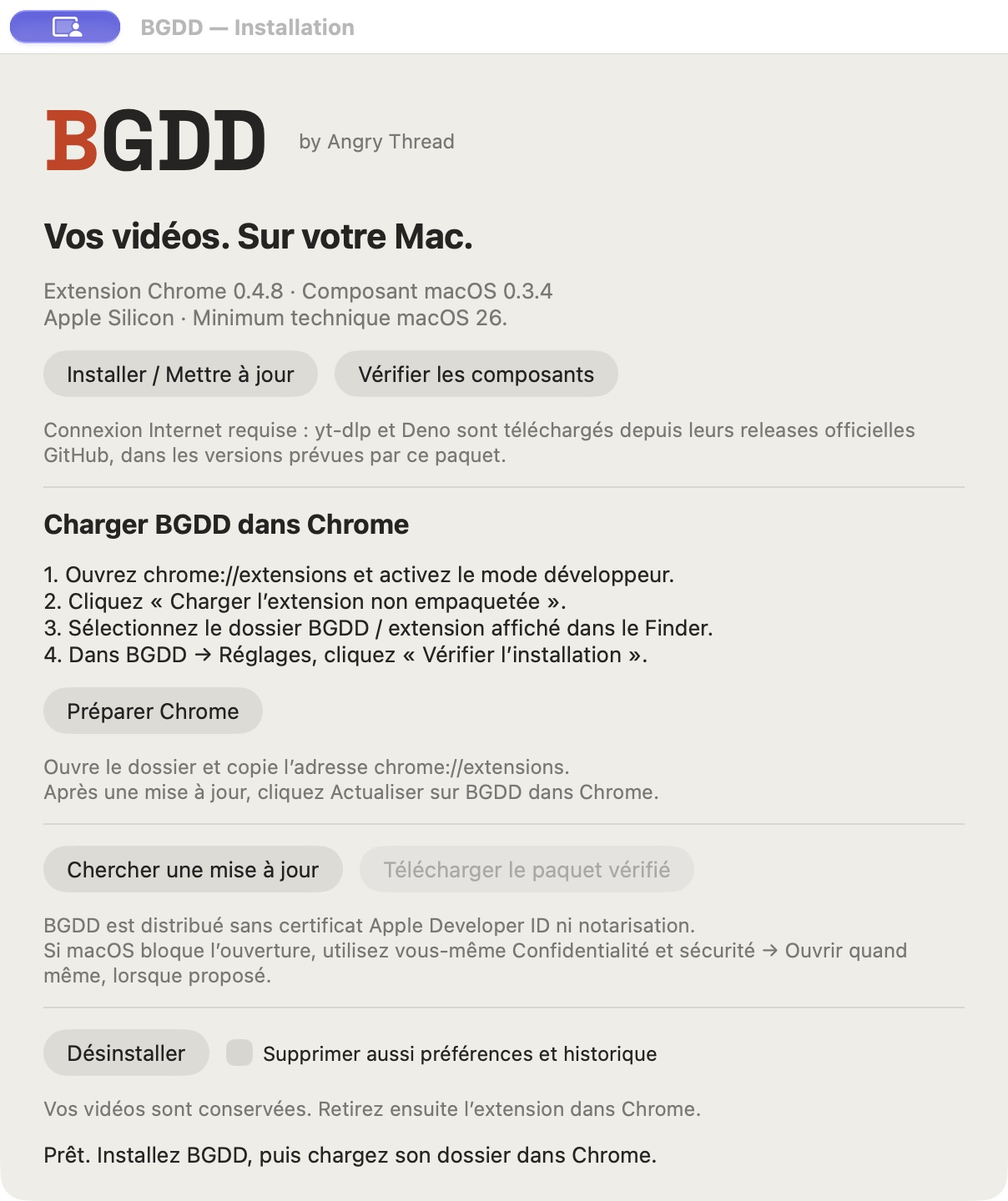
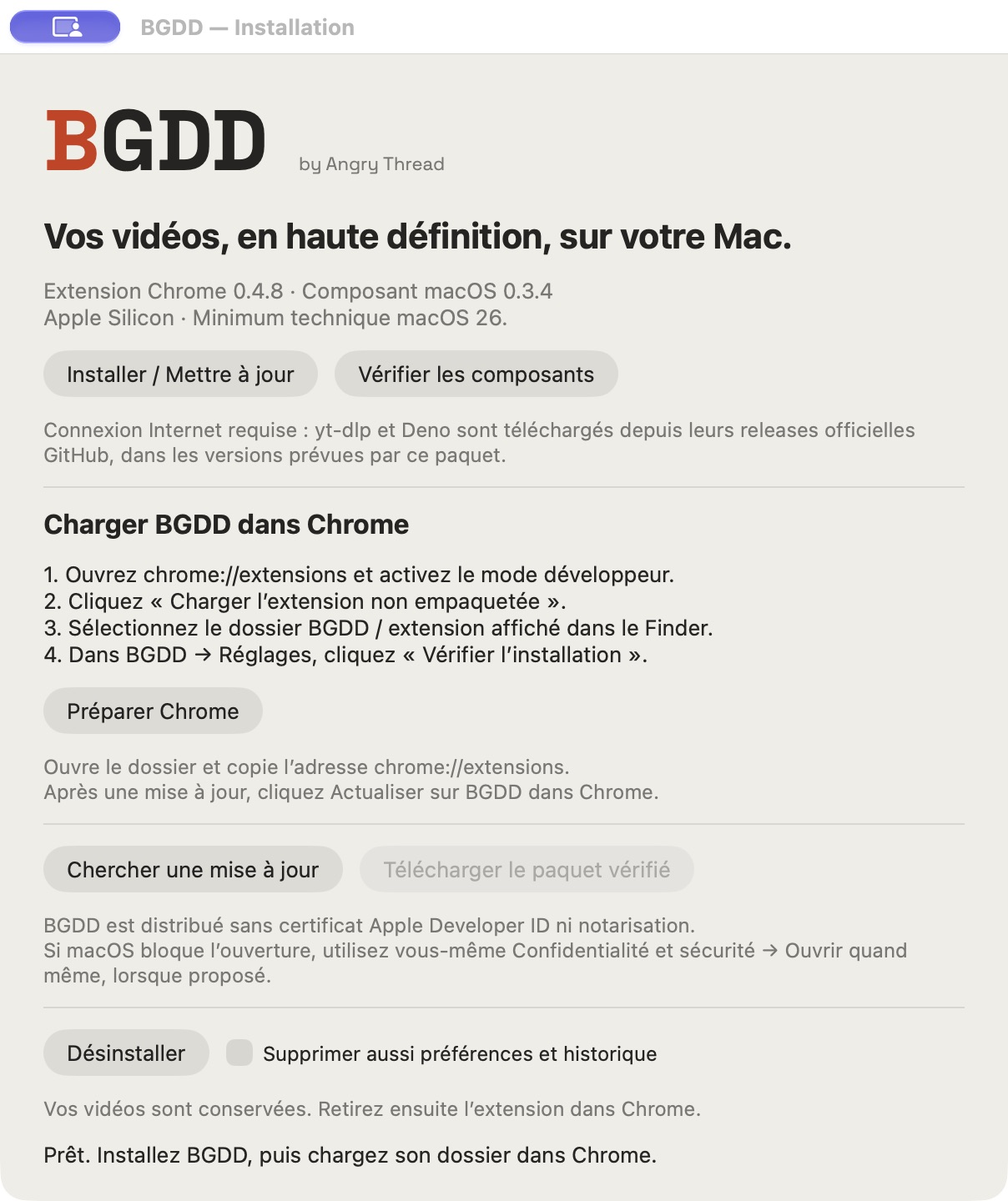
Prepare rc2 private distribution with qualified codecs and current limits

Changed region(s): [[0.2144, 0.1875, 0.7964, 0.2188], [0.3063, 0.0938, 0.4594, 0.1562]]

diff --git a/docs/DISTRIBUTION-VALIDATION.md b/docs/DISTRIBUTION-VALIDATION.md
@@ -1,31 +1,50 @@
-# Distribution 0.4.8-rc.2 Validation
+# Distribution 0.4.8-rc.2 — Validation
 
-La candidate gratuite propriétaire cible **macOS 26 et 27 arm64**. Le minimum technique 26.0 est inspecté ; il ne constitue pas une preuve de fonctionnement sur macOS 26. Le dépôt de développement et la vitrine restent privés. La conformité de redistribution de l’architecture hybride est établie pour les matériaux contrôlés ; la publication publique n’est pas autorisée.
+La candidate gratuite propriétaire cible **macOS 26 et 27 Apple Silicon**. Les deux systèmes ont réellement exécuté les recettes privées. L’installation, les outils et Native Messaging passent ; les quatre téléchargements publics demandés échouent sur une vérification YouTube. La compatibilité complète et le parcours Gatekeeper de la candidate finale restent donc **non qualifiés**. Les deux dépôts restent privés et aucune publication publique n’est autorisée.
 
-## Preuves actuelles séparées
+## Preuves séparées
 
 | Périmètre | Résultat observé | Limite |
 |---|---|---|
-| Build natif et codecs | Installateur, host, gardien, sélecteur, FFmpeg et ffprobe réellement compilés target26 ; architectures, minimums, SDK et imports inspectés | Build local SDK27 ; exécution sous OS26 à mesurer en VM |
-| Installateur et updater | 86 validations maintenance/versions/origines/transactions réussies, dont refus legacy avant mutation | Fixtures et HOME marqués, pas autorisation Gatekeeper humaine |
-| Bootstrap | 36 contrôles de configuration, pins, archives ZIP, chemins et quarantaine réussis | Inspection de vraies archives officielles et entrées malveillantes ; aucun transfert réussi déduit de ces tests |
-| Vitrine | Audit local des fichiers suivis et de tout l’historique du dépôt indépendant, tests secrets/source privée/archives altérées | Aucun scanner externe ni publication publique |
-| Paquet hybride local | 58 fichiers payload, 66 fichiers application, six Mach-O, aucun runtime upstream exclu | Installation réseau encore à qualifier |
-| Sources et licences | 23 matériaux juridiques et kit de 15 fichiers tiers contrôlés ; compilation réellement exécutée | Autorisation de redistribution ne prouve ni compatibilité OS ni ouverture Gatekeeper |
-| Acquisition officielle locale | Une tentative yt-dlp a reçu HTTP504, zéro octet ; échec signalé | Indisponibilité réseau mesurée, aucune version ou empreinte remplacée |
-| VM authentiques 26/27 | Matrice GitHub Actions préparée | Résultats rc2 pas encore acquis à ce stade |
-| Gatekeeper manuel | Procédure officielle documentée, quarantaines préservées | Aucune autorisation utilisateur simulée ni parcours complet déclaré |
+| Non-régression | 357/357 tests existants ; TypeScript et build réussis | Tests automatisés, distincts des essais réseau et des autorisations humaines |
+| Installateur et mise à jour | 86/86 contrôles de maintenance, versions, origines et transactions | Fixtures et HOME isolés ; aucune autorisation Gatekeeper humaine déduite |
+| Bootstrap et sécurité | 44/44 contrôles des pins, archives ZIP, chemins, liens et quarantaine | Vraies archives officielles et entrées malveillantes ; ni version ni empreinte assouplie |
+| Packaging et vitrine | 8/8 contrôles du paquet ; 2/2 contrôles du refus de sources originales, secrets, liens et historique | Audit des fichiers réellement suivis et des blobs historiques ; aucun scanner externe revendiqué |
+| macOS 26 natif | macOS 26.6.2 arm64, Xcode 26.6, SDK 26.5, Swift 6.3.3 : build et installation réelle isolée réussis | Recette automatisée ; pas de compte macOS neuf ni de parcours graphique complet |
+| macOS 27 natif | macOS 27.0.1 arm64, Xcode 27.0, SDK 27.0, Swift 6.4 : mêmes recettes réussies | Même limite ; les preuves historiques rc.1 restent distinctes |
+| Acquisition des moteurs | Trois cycles réels de bootstrap officiel par OS ; versions, empreintes et quarantaine contrôlées | Les premiers incidents locaux HTTP504 et délai dépassé restent consignés séparément |
+| Composants installés | 111 Mach-O inspectés après acquisition ; six exécutables transportés arm64, minimum26.0 ; signatures techniques et imports contrôlés | L’inspection ne remplace pas l’exécution ; signature ad hoc sans identité Apple |
+| Maintenance native | Installation déplacée, diagnostic encadré, sortie EOF, outils réels, remplacement GPL reconstruit, mise à jour, désinstallation et réinstallation réussis sur les deux OS | Préférences, historique et médias conservés ; pas une preuve Gatekeeper graphique |
+| Chrome vierge | Profil isolé, identité exacte, destination isolée, Native Messaging réel, reprise après mise à jour, refus d’origine incorrecte et fermeture sans processus de recette restant : sept contrôles réussis par OS | Chrome automatisé sans compte ; panneaux AppKit et actions Finder non qualifiés par cette recette |
+| YouTube public | Qualité maximale, MP4, WAV et MP3 : huit tentatives au total, toutes unavailable, code challenge | « Vérification demandée par YouTube. » ; zéro format réseau qualifié, aucune annulation de transfert actif démontrée |
+| Codecs de la candidate SDK26 | 5/5 recettes réussies sur chaque OS avec les mêmes FFmpeg/ffprobe : remux, MP4 H.264/AAC, WAV24 PCM identique, MP3 320k et carrousel 3 images | Médias locaux de recette ; MP4 issu d’une source synthétique déclarée, pas une conversion AV1 silencieuse ni un téléchargement public |
+| Interface locale macOS27 | Installation graphique réelle dans un HOME marqué, vérification des fichiers et préparation du dossier Chrome réussies ; alignement BGDD/signature et nouvelle phrase vérifiés visuellement | Variante de recette locale SDK27 ; aucune modification de l’installation personnelle |
+| Gatekeeper manuel local | Refus initial du host observé ; après autorisation personnelle, diagnostic Chrome natif réussi. Autorisation du gardien confirmée par l’utilisateur ; NSOpenPanel ouvert depuis Chrome, choix enregistré et annulation conservant la destination réussis | Variante locale SDK27 ; aucun parcours complet de la candidate distante finale sur26/27 déclaré |
+| Licences | 23 matériaux transportés, kit de 15 fichiers tiers, reconstruction indépendante et remplacement réellement exécutés | Conformité limitée à l’architecture hybride et aux matériaux examinés ; aucune approbation Apple ou publication publique déduite |
 
-## Recettes attendues
+Les pages synthétiques servent uniquement aux métadonnées et captures. Les essais YouTube passent par l’extension, son worker et le host réels, sans cookies ni compte personnel. Un état unavailable, auth ou interrupted ne vaut jamais succès. Les échecs réseau conservent les workflows de distribution en échec.
 
-La matrice demande installation déplacée, vrais moteurs, Chrome vierge, quatre formats Coffee Run public sous CC BY4.0, historique, destination, Finder, annulation, mise à jour avec conservation et désinstallation. Les transferts réseau doivent tous finir en done pour qualifier leurs quatre formats ; un état unavailable/auth/interrupted ne constitue pas un succès. Les pages synthétiques servent à la metadata/capture, tandis que le host reçoit le média réel directement de YouTube, sans cookie ou compte personnel.
+## Candidate et provenance
 
-Le choix NSOpenPanel et l’autorisation Gatekeeper graphique demandent des interactions séparées de la recette headless. Une VM locale GUI26 est préparée techniquement, avec image Apple officielle identifiée ; son stockage et sa qualification restent à établir.
+La candidate retenue utilise l’application compilée dans la recette macOS26, SDK26.5. Les 66 fichiers de cette application sont conservés lors des rafraîchissements documentaires du DMG. Les inventaires, sources de codecs, instructions de reconstruction et empreintes distinguent les anciens builds locaux des exécutables réellement transportés.
 
-## Historique conservé
+Le DMG hybride contient BGDD, FFmpeg/ffprobe, les polices et leurs matériaux exigés. yt-dlp et Deno sont acquis directement depuis leurs releases officielles lors de l’installation explicite, avec versions et empreintes fixées. Leur archive et leur runtime ne sont pas redistribués dans le DMG.
 
-rc.1 a été conservée avec son DMG, tag, sources et preuves. Ses 350 tests historiques, Chrome156.0.8078.4, quatre transferts YouTube, annulation native et Finder, ainsi que la VM macOS27.0.1, ne sont pas réattribués à rc.2. Les réserves juridiques de son bundle autonome demeurent ouvertes.
+## Gatekeeper et systèmes restant à qualifier
 
-## Limites
+Le parcours complet doit encore couvrir la candidate finale téléchargée à distance, quarantaine conservée : première ouverture, autorisation humaine, auxiliaires et moteurs, téléchargement autorisé, fermeture/réouverture et désinstallation sur chaque OS. Une exception accordée à un seul exécutable ne qualifie pas les autres.
 
-Aucun Intel, nouvelle recette réseau X/Instagram/TikTok, écoute humaine, VoiceOver humain ou nouveau test matériel APFS/exFAT n’est revendiqué. Aucune installation personnelle n’est modifiée. Les preuves de recette sont locales ou dans la CI privée, sans logs ni historique personnel dans la vitrine.
+Aucune VM locale n’est utilisée, conformément à la préférence de Henry. Les recettes distantes sont automatisées ; les validations graphiques restantes peuvent être réalisées sur des Mac sous26 et27 sans imposer de VM à l’utilisateur. L’absence d’un parcours graphique26 reste une limite explicite.
+
+## Historique et périmètre
+
+rc.1 est conservée avec son DMG, son tag, ses sources et ses preuves. Ses 350 tests, quatre transferts YouTube, annulation native, Finder et recette macOS27 ne sont pas réattribués à rc.2. Les réserves juridiques de son ancien bundle autonome restent historiques et ouvertes.
+
+Aucun Intel, nouvel essai public X/Instagram/TikTok, écoute humaine, VoiceOver humain ou nouveau test matériel APFS/exFAT n’est revendiqué. L’installation personnelle et le Chrome personnel restent hors recette.
+
+## État de publication
+
+- **Préparé techniquement :** paquet construit ; installation et fonctionnement démontrés dans les périmètres ci-dessus.
+- **Conforme pour distribution :** matériaux et droits de redistribution établis pour le périmètre hybride examiné.
+- **Prêt à publier : non.** Parcours Gatekeeper complet de la candidate finale, interface26 et quatre formats réseau sur les deux OS restent à qualifier.
+- **Public : non.** Dépôts privés ; publication conditionnée à une validation terminée et à l’accord final explicite de Henry.

diff --git a/docs/DISTRIBUTION-LICENSES.md b/docs/DISTRIBUTION-LICENSES.md
@@ -39,10 +39,12 @@ Le kit **BGDD-third-party-sources.zip** de la même release et le paquet lui-mê
[7 lines of base64/hex data omitted]
 
-Le build a réellement utilisé `/bin/sh` sur cette recette, Apple Clang 21.0.0 / Xcode 27, SDK 27.0. Les deux Mach-O obtenus sont arm64, `LC_BUILD_VERSION` minimum **26.0**. Aucune modification du code des trois archives n’a été appliquée. Les options exactes et les résultats sont consignés dans `build-record.json` et `FFmpeg-build.txt`. La cible de compilation ne suffit pas à annoncer une compatibilité macOS 26 effectivement validée.
+Le **premier build local historique** a réellement utilisé `/bin/sh`, Apple Clang 21.0.0 / Xcode 27 et SDK 27.0. Ses deux Mach-O sont arm64, minimum **26.0**. `build-record.json` et la sortie brute `FFmpeg-build.txt` du kit conservent cette référence, explicitement historique : leurs empreintes binaires ne désignent pas une candidate ultérieure construite avec SDK26.
+
+Pour la candidate que l’utilisateur reçoit, **`VERSIONS.json.media` fait autorité** sur le compilateur/SDK, les options et les deux empreintes avant signature. Le payload `native/integrity.json` et `native/dependencies.json` identifie les codecs livrés après signature ; `native/licenses/codec-build/FFmpeg-build.txt` est la notice issue de ce build. Les sommes de la même release identifient le DMG et son kit. La compilation SDK26 préservée utilise réellement les mêmes trois archives, la recette SHA `b1f25e73…` et les mêmes options ; aucune modification de leurs sources n’est introduite par cette clarification. La cible de compilation et la conformité source restent distinctes de la qualification de fonctionnement.
 
 Le pipeline privé consomme ces sorties puis les prépare pour le conteneur. La re-signature ad hoc change les octets et leurs empreintes ; le manifest et les sommes du paquet final sont calculés ensuite. Elle ne prétend ni certifier l’identité Apple de l’éditeur ni supprimer le droit de reconstruire les sources.
 
@@ -79,10 +81,12 @@ Les compositions graphiques réalisées à partir des glyphes sont distinctes du
 
 ## Verdict et garde-fous
 
[2 lines of base64/hex data omitted]
 
-Le [statut public de redistribution](../licenses/REDISTRIBUTION-STATUS.json) indique : **redistribution autorisée pour ce seul périmètre hybride contrôlé**, et une publication publique non autorisée à ce stade. Le snapshot de contrôle joint à l’application lors de sa fabrication précède ce verdict final ; la preuve et le statut courants de la release le complètent. Aucune conformité globale des bundles historiques n’est proclamée. La publication publique, la qualification macOS 26/27 et le parcours Gatekeeper sont des conditions distinctes que ce verdict ne remplace pas.
+Le [statut public de redistribution](../licenses/REDISTRIBUTION-STATUS.json) indique : **redistribution autorisée pour ce seul périmètre hybride contrôlé**, et une publication publique non autorisée à ce stade. Les inspections historiques sont conservées ; une nouvelle application ou de nouveaux matériaux juridiques nécessitent une inspection correspondante du conteneur final. Le statut de la release et ses empreintes doivent être lus avec le paquet concerné. Aucune conformité globale des bundles historiques n’est proclamée. La publication publique, la qualification macOS 26/27 et le parcours Gatekeeper sont des conditions distinctes que ce verdict ne remplace pas.
 
 ## Accès direct aux matériaux
 
 Les [instructions de reconstruction](../sources/README.md), les [trois archives exactes](../sources/), la [recette réellement exécutée](../sources/build-codecs.sh), le [relevé de compilation](../sources/build-record.json) et la [méthode de remplacement local](../sources/install-codecs.pl) sont accessibles dans ce dépôt. Les textes GNU complets et la licence de la police se trouvent dans [les licences jointes](../licenses/). Le kit **BGDD-third-party-sources.zip** de la même release ajoute le TTF original de Space Grotesk ; tant que la vitrine reste privée, aucun asset n’est annoncé comme accessible publiquement.
+
+La [référence historique du premier build](../sources/build-record.json) est explicitement distincte des métadonnées du build livré. Consulter `VERSIONS.json.media` de la même release pour le compilateur/SDK et les SHA actuels, puis les empreintes du payload pour les octets signés.

diff --git a/sources/README.md b/sources/README.md
@@ -18,7 +18,7 @@ Origines : [FFmpeg 9.0.2](https://ffmpeg.org/releases/ffmpeg-9.0.2.tar.xz), [x26
 
 Ces étapes s’adressent aux personnes souhaitant reconstruire ou modifier les codecs. Elles ne font pas partie de l’installation normale de BGDD, qui reste graphique et ne requiert ni Terminal, ni Node, ni Python, ni Homebrew.
 
-Le build de référence a utilisé Apple Silicon, Xcode 27 et Apple Clang 21.0.0, avec SDK 27.0 et cible minimale **macOS 26.0**. Ce minimum de compilation ne qualifie pas à lui seul le fonctionnement sur macOS 26. La recette exige un dossier de sortie vide et ne supprime aucun dossier existant.
+Le **premier build local de référence, conservé comme historique**, a utilisé Apple Silicon, Xcode 27 et Apple Clang 21.0.0, avec SDK 27.0 et cible minimale **macOS 26.0**. Il ne désigne pas automatiquement le build des codecs de chaque candidate actuelle. Ce minimum de compilation ne qualifie pas à lui seul le fonctionnement sur macOS 26. La recette exige un dossier de sortie vide et ne supprime aucun dossier existant.
 
 ```sh
 /bin/sh ./build-codecs.sh . ./build-output
@@ -26,7 +26,11 @@ Le build de référence a utilisé Apple Silicon, Xcode 27 et Apple Clang 21.0.0
 
 La recette réellement exécutée est `build-codecs.sh`. Elle vérifie les trois archives, construit x264/LAME statiques, construit FFmpeg/ffprobe avec les options enregistrées, installe les bibliothèques dans un staging et les exécutables dans `build-output/bin`. Elle génère ses SHA et la notice de configuration. Aucun module privé BGDD n’est requis pour la construction. Le préfixe `/bgdd-build` est logique et utilisé uniquement dans le staging, jamais comme dépendance de runtime.
 
-Les encodeurs H.264, MP3, PCM, AAC, PNG et les décodeurs/parseurs disponibles dans le build sont conservés ; réseau et détection automatique de bibliothèques externes sont désactivés. `build-record.json` rapporte la recette, les trois sources, le compilateur et les empreintes des sorties avant re-signature de distribution. La re-signature ad hoc de transport change les octets et leurs SHA ; les sommes de la release distinguent cette étape.
+Les encodeurs H.264, MP3, PCM, AAC, PNG et les décodeurs/parseurs disponibles dans le build sont conservés ; réseau et détection automatique de bibliothèques externes sont désactivés. `build-record.json` est **une référence historique du premier build local SDK27**, avec ses propres sorties avant signature ; `FFmpeg-build.txt` dans ce kit conserve aussi la sortie brute de cette première construction. Ces SHA historiques ne sont pas les SHA attendues des codecs d’une candidate construite ensuite avec SDK26.
+
+Pour le paquet que vous avez réellement téléchargé, **`VERSIONS.json`, champ `media`, fait autorité** sur le SDK, le compilateur, les sources/recette, les options et les empreintes avant signature du build actuel. Le payload `native/integrity.json` et `native/dependencies.json` donne les empreintes des deux exécutables réellement livrés après signature. Le payload `native/licenses/codec-build/FFmpeg-build.txt` conserve la notice de configuration générée par ce build actuel. Les sommes `SHA256SUMS` de la même release identifient le conteneur et le kit de sources.
+
+La recette publique et les trois archives exactes restent celles qui ont réellement produit ces builds ; seul leur environnement de construction peut différer. La GPL demande les sources correspondantes effectives, sans imposer une identité d’empreinte entre compilateurs différents. [FAQ GNU sur les sources et les SHA binaires](https://www.gnu.org/licenses/gpl-faq.en.html#MustSourceBuildToMatchExactHashOfBinary). La signature de transport change aussi les octets et leurs SHA.
 
 Pour modifier LAME, x264 ou FFmpeg, décompacter la source concernée, effectuer les changements, recréer son archive et adapter dans votre copie de `build-codecs.sh` l’empreinte de l’archive modifiée. Les contrôles de SHA du build de référence sont éditables dans cette recette sous GPL ; ils ne retirent pas le droit de modifier les sources. La recette reconstruira et rééditera les liens statiques avec la bibliothèque modifiée.
 

diff --git a/docs/DISTRIBUTION-BOUNDARIES.md b/docs/DISTRIBUTION-BOUNDARIES.md
@@ -67,7 +67,7 @@ L’absence de notarisation ou de Developer ID est une limite d’authenticité 
 
 GPLv2 exige la source correspondante complète et les scripts utilisés pour contrôler la compilation et l’installation des exécutables. Des archives upstream sans la recette réellement utilisée ne suffisent donc pas à notre clôture. [GPLv2, section 3](https://www.gnu.org/licenses/old-licenses/gpl-2.0.en.html#section3).
 
-`build-codecs.sh` est une recette indépendante, diffusée sous GPL-2.0-or-later uniquement comme matériau du kit codec. Elle compile les trois sources sans importer les modules privés BGDD, installe les bibliothèques dans un staging privé et place FFmpeg/ffprobe dans le répertoire `bin` construit. Le pipeline rc2 l’a réellement exécutée ; les trois SHA source, la SHA de la recette, les options, Clang 21.0.0/SDK 27.0 et les deux sorties avant signature sont enregistrés dans [le relevé de construction](../sources/build-record.json). Le conteneur rc2 et les sources ont ensuite été comparés aux matériaux approuvés, avec une identité complète des 66 fichiers de l’application et des 15 fichiers du kit tiers.
+`build-codecs.sh` est une recette indépendante, diffusée sous GPL-2.0-or-later uniquement comme matériau du kit codec. Elle compile les trois sources sans importer les modules privés BGDD, installe les bibliothèques dans un staging privé et place FFmpeg/ffprobe dans le répertoire `bin` construit. Le premier pipeline local rc2 l’a réellement exécutée ; [le relevé historique](../sources/build-record.json) conserve sa construction Clang 21.0.0/SDK 27.0. Les candidates ultérieures SDK26 exécutent la même recette et les mêmes archives/options ; `VERSIONS.json.media` de chaque release consigne leur propre compilateur, SDK et sorties avant signature. Les empreintes du payload identifient les codecs après signature. Le conteneur rc2 et les sources ont ensuite été comparés aux matériaux approuvés, avec une identité complète des 66 fichiers de l’application et des 15 fichiers du kit tiers.
 
 L’installateur graphique BGDD copie et transporte les fichiers déjà construits ; il ne compile ni ne lie les codecs au code propriétaire. La FAQ GNU traite explicitement l’installateur et les fichiers qu’il installe comme des œuvres séparées : cela n’impose pas une licence GPL à l’installateur indépendant. Les scripts propres à la compilation et à l’installation du codec restent, eux, fournis dans le kit et réellement exécutés. [FAQ GNU sur l’installateur](https://www.gnu.org/licenses/old-licenses/gpl-2.0-faq.html#GPLCompatInstaller).
 

diff --git a/docs/DISTRIBUTION-GATEKEEPER.md b/docs/DISTRIBUTION-GATEKEEPER.md
@@ -6,7 +6,7 @@ BGDD est un logiciel indépendant distribué sans certificat Apple Developer ID 
 
 1. Télécharger le paquet d’une release BGDD approuvée, ouvrir le DMG, puis essayer d’ouvrir **BGDD Installer.app**.
 2. Si une alerte indique qu’Apple ne peut pas vérifier le développeur ou la présence de logiciels malveillants, fermer l’alerte.
-3. Ouvrir **Réglages Système → Confidentialité et sécurité**. Dans Sécurité, choisir **Ouvrir quand même** pour BGDD, lorsque ce bouton est proposé.
+3. Ouvrir **Réglages Système → Confidentialité et sécurité**. Dans Sécurité, choisir **Ouvrir quand même** ou **Autoriser quand même**, selon la version de macOS, pour le composant BGDD nommé dans l’alerte, lorsque ce bouton est proposé.
 4. Confirmer personnellement **Ouvrir**. macOS peut demander une authentification.
 5. Revenir à l’installateur, installer les composants, puis vérifier leur fonctionnement.
 
@@ -14,7 +14,9 @@ Ce parcours suit la [procédure officielle Apple](https://support.apple.com/fr-f
 
 ## Si un composant reste bloqué
 
-La vérification porte aussi sur les auxiliaires et les moteurs. Si macOS bloque un composant après l’installation, conserver le message et son nom, puis vérifier si **Ouvrir quand même** est proposé pour cet élément. Refaire ensuite **Vérifier les composants**. Un blocage persistant ne doit pas être présenté comme une installation réussie.
+La vérification porte aussi sur les auxiliaires et les moteurs. Si macOS bloque un composant après l’installation, conserver le message et son nom, puis vérifier si **Ouvrir quand même** ou **Autoriser quand même** est proposé pour cet élément. Le composant natif `bgdd-host`, le gardien `bgdd-runner`, le sélecteur et le moteur `yt-dlp` ont notamment déclenché ce contrôle dans la recette macOS 27. Chaque exception doit être décidée par l’utilisateur. Relancer ensuite l’action qui a été bloquée dans Chrome.
+
+**Vérifier les composants** contrôle les fichiers, leurs empreintes et l’enregistrement Chrome. Ce contrôle seul ne prouve pas que macOS autorise leur lancement : vérifier ensuite la communication Chrome et un téléchargement autorisé. Un blocage persistant ne doit pas être présenté comme un parcours fonctionnel validé.
 
 Si macOS indique que le logiciel est endommagé, modifié ou dangereux, ou si aucune autorisation officielle n’est proposée, arrêter le parcours et consulter les problèmes connus. L’autorisation manuelle d’une app non identifiée n’est pas une solution générale à toutes les alertes.
 

diff --git a/docs/DISTRIBUTION-DEPENDENCIES.md b/docs/DISTRIBUTION-DEPENDENCIES.md
@@ -4,6 +4,6 @@ BGDD est gratuit et propriétaire pour son code original, copyright © 2026 Angr
 
 yt-dlp 2026.08.19, son bundle Python/EJS, et Deno 2.9.7 sont obtenus directement de leurs releases officielles lors d’une installation volontaire. Leurs archives et exécutables ne sont pas redistribués dans le DMG ou les assets BGDD rc2. La qualification GPLv3+ du bundle yt-dlp et les licences transitives Deno restent intactes ; les réserves historiques pour leur redistribution autonome ne sont pas présentées comme clôturées.
 
-[l’inventaire courant](../licenses/DEPENDENCIES-rc2.json) distingue ces modes de fourniture, sources, versions, architectures et SHA. Les SHA du codec reconstruit sont celles d’avant signature de transport ; les empreintes du payload et `SHA256SUMS` de la release déterminent les octets finalement livrés. La cible macOS 26.0 est une propriété de compilation et non une qualification de fonctionnement sur ce système.
+[l’inventaire courant](../licenses/DEPENDENCIES-rc2.json) distingue ces modes de fourniture, sources, versions, architectures et SHA. Les SHA explicitement historiques sont celles du premier build local SDK27 et ne désignent pas les codecs d’une candidate SDK26. Pour la release actuelle, `VERSIONS.json.media` donne le compilateur/SDK et les SHA avant signature ; les empreintes du payload donnent les deux codecs après signature et `SHA256SUMS` identifie les assets finalement livrés. La cible macOS 26.0 est une propriété de compilation et non une qualification de fonctionnement sur ce système.
 
 Voir les [licences actuelles](DISTRIBUTION-LICENSES.md), les [frontières entre programmes](DISTRIBUTION-BOUNDARIES.md) et les [conditions BGDD](../CONDITIONS.md).

diff --git a/README.md b/README.md
@@ -1,5 +1,5 @@
 <p align="center"><picture><source media="(prefers-color-scheme: dark)" srcset="assets/wordmark-dark.svg"><img src="assets/wordmark-light.svg" width="220" alt="BGDD"></picture></p>
-<p align="center"><strong>Vos vidéos, dans leur meilleure qualité.</strong><br>by Angry Thread</p>
+<p align="center"><strong>Vos vidéos, en haute définition, sur votre Mac.</strong><br>by Angry Thread</p>
 <p align="center">Français · <a href="README.en.md">English</a></p>
 
 BGDD est un logiciel **gratuit et propriétaire** qui associe une extension Chrome à un moteur local macOS. Choisissez une publication, un format et un dossier : le téléchargement et le traitement se font sur votre Mac. Aucun compte BGDD, abonnement, serveur de téléchargement ou télémétrie.

diff --git a/README.en.md b/README.en.md
@@ -1,5 +1,5 @@
 <p align="center"><picture><source media="(prefers-color-scheme: dark)" srcset="assets/wordmark-dark.svg"><img src="assets/wordmark-light.svg" width="220" alt="BGDD"></picture></p>
-<p align="center"><strong>Your videos, at their best available quality.</strong><br>by Angry Thread</p>
+<p align="center"><strong>Your videos, in high definition, on your Mac.</strong><br>by Angry Thread</p>
 <p align="center"><a href="README.md">Français</a> · English</p>
 
 BGDD is **free proprietary software** pairing a Chrome extension with a local macOS engine. Choose a publication, format and folder: downloading and processing stay on your Mac. No BGDD account, subscription, download server or telemetry.
